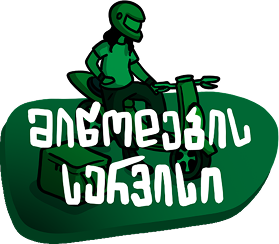
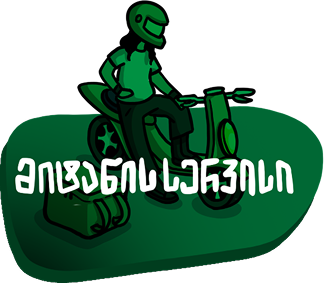
Support theme-specific delivery and cashier cards

diff --git a/landing-app/src/components/CardModal.tsx b/landing-app/src/components/CardModal.tsx
@@ -8,10 +8,11 @@ import type { HeroItemWithCard } from "@/data/heroItems";
 
 type CardModalProps = {
   card: HeroItemWithCard | null;
+  isDarkTheme: boolean;
   onClose: () => void;
 };
 
-export default function CardModal({ card, onClose }: CardModalProps) {
+export default function CardModal({ card, isDarkTheme, onClose }: CardModalProps) {
   const [renderedCard, setRenderedCard] = useState<HeroItemWithCard | null>(null);
   const pendingCardRef = useRef<HeroItemWithCard | null>(null);
   const dialogRef = useRef<HTMLDivElement>(null);
@@ -36,8 +37,10 @@ export default function CardModal({ card, onClose }: CardModalProps) {
     }
 
     pendingCardRef.current = card;
+    const targetImage =
+      isDarkTheme && card.card.darkImage ? card.card.darkImage : card.card.image;
     const image = new window.Image();
-    image.src = card.card.image.src;
+    image.src = targetImage.src;
 
     const resolve = () => {
       if (!cancelled && pendingCardRef.current?.id === card.id) {
@@ -58,7 +61,7 @@ export default function CardModal({ card, onClose }: CardModalProps) {
       image.removeEventListener("load", resolve);
       image.removeEventListener("error", resolve);
     };
-  }, [card]);
+  }, [card, isDarkTheme]);
 
   useEffect(() => {
     if (!renderedCard) {
@@ -89,6 +92,11 @@ export default function CardModal({ card, onClose }: CardModalProps) {
     router.push(target);
   };
 
+  const cardImage =
+    isDarkTheme && renderedCard.card.darkImage
+      ? renderedCard.card.darkImage
+      : renderedCard.card.image;
+
   return (
     <div
       className="fixed inset-0 z-50 flex items-center justify-center bg-black/60 p-4"
@@ -103,12 +111,7 @@ export default function CardModal({ card, onClose }: CardModalProps) {
         className="relative w-[min(338px,90vw)] outline-none"
         onClick={(event) => event.stopPropagation()}
       >
-        <Image
-          src={renderedCard.card.image}
-          alt={renderedCard.card.heading}
-          className="h-auto w-full"
-          priority
-        />
+        <Image src={cardImage} alt={renderedCard.card.heading} className="h-auto w-full" priority />
         <button
           type="button"
           onClick={onClose}

diff --git a/landing-app/src/data/heroItems.ts b/landing-app/src/data/heroItems.ts
@@ -54,8 +54,10 @@ import BakeryCard from "@/media/BakeryCard.png";
 import KitchenCard from "@/media/KitchenCard.png";
 import ButcheryCard from "@/media/ButcheryCard.png";
 import CashierCard from "@/media/CashierCard.png";
+import CashierCardDark from "@/media/CashierCardDark.png";
 import ServiceCard from "@/media/ServiceCard.png";
 import DeliveryCard from "@/media/DeliveryCard.png";
+import DeliveryCardDark from "@/media/DeliveryCardDark.png";
 import WarehouseCard from "@/media/WarehouseCard.png";
 
 export const HEADLINE =
@@ -63,6 +65,7 @@ export const HEADLINE =
 
 export type HeroCardDetails = {
   image: StaticImageData;
+  darkImage?: StaticImageData;
   heading: string;
   points: string[];
 };
@@ -190,6 +193,7 @@ export const heroItems: HeroItem[] = [
     mobileClass: "left-[4%] top-[50%] w-[32%]",
     card: {
       image: CashierCard,
+      darkImage: CashierCardDark,
       heading: "\u10e1\u10d0\u10da\u10d0\u10e0\u10d4",
       points: [
         "\u10db\u10da\u10d0\u10e0\u10d8",
@@ -256,6 +260,7 @@ export const heroItems: HeroItem[] = [
     mobileClass: "left-[0%] top-[32%] w-[29%]",
     card: {
       image: DeliveryCard,
+      darkImage: DeliveryCardDark,
       heading: "\u10db\u10d8\u10d7\u10d0\u10dc\u10d8\u10e1 \u10e1\u10d4\u10e0\u10d5\u10d8\u10e1\u10d8",
       points: [
         "\u10d0\u10e0\u10dd\u10ec\u10d8, \u10e0\u10dd\u10db\u10d4\u10da \u10d9\u10dd\u10db\u10de\u10d0\u10dc\u10d8\u10d0\u10d6\u10d4 \u10db\u10e1\u10d0\u10d5\u10e1 \u10d3\u10d0\u10d3\u10e1\u10d0\u10e7\u10d0\u10da\u10d4\u10d1\u10d0",

diff --git a/landing-app/src/app/api/application/route.ts b/landing-app/src/app/api/application/route.ts
@@ -4,6 +4,40 @@ import {
   appendApplicationRow,
   type ApplicationSubmission,
 } from "@/lib/googleSheets";
+import { applicationOptionsByCard } from "@/data/applicationOptions";
+
+const CARD_KEY_TO_WORKSHEET: Record<string, string> = {
+  security: "Security",
+  service: "Service",
+  kitchen: "Kitchen",
+  delivery: "Delivery",
+  warehouse: "Warehouse",
+  cashier: "Cashier",
+  butchery: "Butchery",
+  baker: "Bakery",
+};
+
+const POSITION_TO_WORKSHEET = new Map<string, string>(
+  Object.entries(applicationOptionsByCard)
+    .filter(([key]) => key in CARD_KEY_TO_WORKSHEET)
+    .flatMap(([key, optionSet]) => {
+      const worksheet = CARD_KEY_TO_WORKSHEET[key];
+      return optionSet.positionOptions.map((position) => [position, worksheet] as const);
+    }),
+);
+
+const resolveWorksheetForSubmission = (
+  submission: ApplicationSubmission,
+): string | undefined => {
+  if (submission.preferredPosition) {
+    const worksheet = POSITION_TO_WORKSHEET.get(submission.preferredPosition);
+    if (worksheet) {
+      return worksheet;
+    }
+  }
+
+  return undefined;
+};
 
 const REQUIRED_FIELDS: Array<keyof ApplicationSubmission> = [
   "firstName",
@@ -34,7 +68,9 @@ export async function POST(request: Request) {
       }
     }
 
-    await appendApplicationRow(payload);
+    const worksheet = resolveWorksheetForSubmission(payload);
+
+    await appendApplicationRow(payload, worksheet);
 
     return NextResponse.json({ success: true });
   } catch (error) {

diff --git a/landing-app/src/lib/googleSheets.ts b/landing-app/src/lib/googleSheets.ts
@@ -21,9 +21,15 @@ const getSpreadsheetId = () => {
   return spreadsheetId;
 };
 
-const getWorksheetRange = () => {
-  const worksheet = process.env.GOOGLE_SPREADSHEET_RANGE ?? "Sheet1!A:G";
-  return worksheet;
+const getWorksheetRange = (worksheet?: string) => {
+  const defaultRange = process.env.GOOGLE_SPREADSHEET_RANGE ?? "Sheet1!A:G";
+
+  if (!worksheet) {
+    return defaultRange;
+  }
+
+  const [, columnRange = "A:G"] = defaultRange.split("!");
+  return `${worksheet}!${columnRange}`;
 };
 
 const getSheetsClient = async () => {
@@ -58,10 +64,11 @@ const getSheetsClient = async () => {
 
 export const appendApplicationRow = async (
   submission: ApplicationSubmission,
+  worksheet?: string,
 ) => {
   const sheets = await getSheetsClient();
   const spreadsheetId = getSpreadsheetId();
-  const range = getWorksheetRange();
+  const range = getWorksheetRange(worksheet);
   const timeZone = process.env.APPLICATION_TIME_ZONE ?? "Asia/Tbilisi";
   const timestamp = new Date().toLocaleString("sv-SE", {
     timeZone,

diff --git a/landing-app/src/components/IntroDoor.tsx b/landing-app/src/components/IntroDoor.tsx
@@ -51,7 +51,7 @@ export default function IntroDoor() {
             aria-label="Open the door"
           >
             <Image
-              src="/intro-door-left.png"
+              src="/intro-door-left-v2.png"
               alt="Left door"
               fill
               priority
@@ -69,7 +69,7 @@ export default function IntroDoor() {
             aria-label="Open the door"
           >
             <Image
-              src="/intro-door-right.png"
+              src="/intro-door-right-v2.png"
               alt="Right door"
               fill
               priority
@@ -85,4 +85,3 @@ export default function IntroDoor() {
     </div>
   );
 }
-

diff --git a/landing-app/src/app/page.tsx b/landing-app/src/app/page.tsx
@@ -56,7 +56,7 @@ export default function Home() {
         />
       </main>
 
-      <CardModal card={selectedCard} onClose={handleCloseModal} />
+      <CardModal card={selectedCard} isDarkTheme={isDarkTheme} onClose={handleCloseModal} />
     </div>
   );
 }

diff --git a/landing-app/src/components/HeroScene.tsx b/landing-app/src/components/HeroScene.tsx
@@ -40,6 +40,7 @@ export default function HeroScene({
         item.mobileDarkSrc,
         item.mobileHoverDarkSrc,
         item.card?.image,
+        item.card?.darkImage,
       ].forEach((asset) => {
         if (!asset) {
           return;
